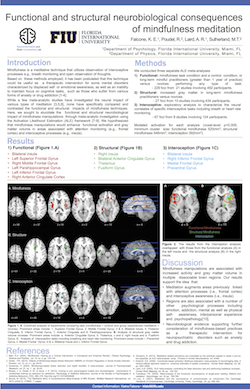
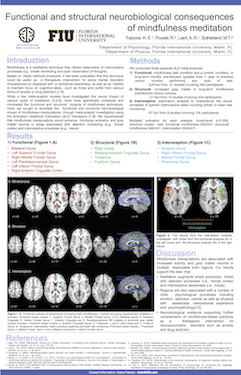
Add OHBM posters (#296)
* Add Jessica's OHBM poster.

* Boom add those posters.

* Standardize poster sizes.

* Improve documentation.

diff --git a/tests/test_images.py b/tests/test_images.py
@@ -36,6 +36,32 @@ def test_team_image_sizes(testdata):
         raise Exception('Test failed on {}'.format(', '.join(failures)))
 
 
+def test_poster_image_sizes(testdata):
+    """
+    Test that poster pictures are the right size.
+    """
+    photo_folder = os.path.join(testdata["assets"], "images", "posters")
+    max_target_size = 375  # in pixels
+
+    # Group photos should not have "-" in the filenames
+    patterns = ["*.png", "*.jpg"]
+    files = [glob(os.path.join(photo_folder, p)) for p in patterns]
+    files = [item for sublist in files for item in sublist]
+    if not len(files):
+        raise Exception("No files found in {}".format(photo_folder))
+
+    failures = []
+    for f in files:
+        fname = os.path.basename(f)
+        img = plt.imread(f)
+        if max(img.shape) != max_target_size:
+            failures.append(fname)
+
+    if len(failures):
+        failures = sorted(list(set(failures)))
+        raise Exception('Test failed on {}'.format(', '.join(failures)))
+
+
 def test_project_image_sizes(testdata):
     """
     Test that project photos are the right size.

diff --git a/posters/_posts/2021-06-21-bottenhorn-physio-ohbm.md b/posters/_posts/2021-06-21-bottenhorn-physio-ohbm.md
@@ -1,0 +1,50 @@
+---
+layout: poster
+title: "Denoising physiological data collected during multi-band, multi-echo EPI sequences"
+nickname: 2021-06-21-bottenhorn-physio-ohbm
+authors: "Bottenhorn KL, Salo T, Riedel MC, Musser ED, Robinson JL, Sutherland MT, Laird AR"
+year: "2021"
+conference: "HBM"
+image: /assets/images/posters/2021-06-21-bottenhorn-physio-ohbm.png
+projects: ["diva"]
+tags: []
+
+# Content
+fulltext: "https://ww4.aievolution.com/hbm2101/index.cfm?do=abs.viewAbs&src=ext&abs=1463"
+pdf: "https://anyscreeninc.com/PF/OHBM/2021/OHBM-Educational-Courses/pdf_poster_files/Katherine_Bottenhorn60785c7f4c7de/Katherine_Bottenhorn.pdf"
+
+# Links
+doi:
+
+# Data and code
+github: ["https://github.com/62442katieb/mbme-physio-denoising"]
+neurovault:
+openneuro:
+figshare:
+figshare_names:
+osf:
+f1000:
+---
+{% include JB/setup %}
+
+# Abstract
+
+## Introduction
+
+The utility of physiological data collected during functional magnetic resonance imaging (fMRI) is twofold, both in removing non-neural physiological noise from fMRI data and in studying psychophysiological phenomena. However, MR sequences impart significant artifacts on simultaneously-collected physiological data, obscuring phenomena of interest and necessitating effective data cleaning approaches. While single-echo (SE) MRI sequences that measure the blood-oxygenation level dependent (BOLD) signal are the norm in fMRI research, advances in MR technology and denoising are prompting researchers to turn to multi-echo (ME) sequences, offering better differentiation between BOLD signal and non-neural noise for improved estimates of brain activation.1-3 Despite their benefits, ME sequences limit temporal resolution, as adding echoes extends repetition times (TRs), and introduce added artifacts to concurrent physiological data. The former can be mitigated by using multi-band (MB) excitation, reducing the time required to acquire a single volume by acquiring several slices simultaneously. The latter complicates the use of physiological data in fMRI studies using ME sequences, which we address here by comparing strategies for MR-artifact removal in physiological data across SE and ME BOLD fMRI scans.
+
+## Methods
+
+Physiological data were collected at 2000Hz using MRI-compatible equipment from BIOPAC Systems. Data were acquired using a BIOPAC MP150 system with MRI-RFIF filters: electrocardiogram (ECG) data with a 3-lead bipolar configuration and an ECG100C-MRI amplifier; electrodermal activity (EDA) recordings, from the nondominant hand, with an EDA100C-MRI amplifier.
+Physiological data were acquired in the bore of a 3-Tesla Siemens MAGNETOM Prisma during both a MBSE BOLD echo planar imaging (EPI) sequence and a MBME BOLD EPI sequence.
+The MBSE sequence is by the Adolescent Brain Cognitive Development (ABCD) Study,4 which acquires 60 slices with TE=30ms, TR=800ms, and MB factor of 6.
+The MBME sequence is from the distribution of MB GRE-EPI sequences developed by the Center for Magnetic Resonance Research at the University of Minnesota, and acquires 48 slices in 4 echoes (TE1=11.80ms, TE2=28.04ms, TE3=44.28ms, TE4=60.52ms), TR=1500ms, MB factor of 3.5
+Code used to create and apply these filters is available on GitHub (github.com/62442katieb/mbme-physio-denoising).
+
+## Results
+
+Following Fourier transforms of ECG and EDA data before and during both sequences, we identified MR-related noise in frequencies corresponding to the TR and slice acquisition. The effects of this noise were greater during ME than SE sequences, which is visually apparent in (1) the difference between recordings collected before and during the two BOLD EPI sequences and (2) their frequency spectra (MBSE-ECG in Fig. 1A-B vs. 1C-D; MBME-ECG in Fig. 1I-J vs. 1K-L and MBSE-ECG in Fig. 2A-B vs. 2C-D; MBME-ECG in Fig. 2I-J vs. 2K-L). By adapting recommendations from industry leaders and prior research, we developed and applied digital infinite impulse-response (IIR) notch filters, greatly reducing the impact of this noise on physiological data.
+
+## Conclusions
+
+MB and ME pulse sequences introduce more complicated artifacts concurrent physiological data than can be addressed with current industry recommendations. Our research finds that these artifacts are predictable and their effects can be greatly mitigated with notch filters centered at their fundamental frequencies and harmonics. By targeting the slice acquisition frequency, adjusted for MB factor, and TR frequency, especially with ME sequences, researchers should be able to remove significant MR-related artifacts from ECG and EDA data collected during fMRI scans using straightforward digital filters. Such recommendations allow researchers to capitalize on the improved SNR afforded by MBSE and MBME BOLD sequences, while including rich physiological data for both cleaning fMRI data and investigating psychophysiological phenomena.

diff --git a/posters/_posts/2021-06-21-flannery-hivcb-eat-ohbm.md b/posters/_posts/2021-06-21-flannery-hivcb-eat-ohbm.md
@@ -1,0 +1,46 @@
+---
+layout: poster
+title: "Reduced Error-Related Default Mode Network Deactivations Linked with HIV and Poor Medication Management"
+nickname: 2021-06-21-flannery-hivcb-eat-ohbm
+authors: "Flannery JS, Riedel MC, Salo T, Poudel R, Laird AR, Gonzalez R, Sutherland MT"
+year: "2021"
+conference: "HBM"
+image: /assets/images/posters/2021-06-21-flannery-hivcb-eat-ohbm.png
+projects: ["hiv_cannabis"]
+tags: []
+
+# Content
+fulltext: "https://ww4.aievolution.com/hbm2101/index.cfm?do=abs.viewAbs&src=ext&abs=1594"
+pdf: "https://anyscreeninc.com/PF/OHBM/2021/OHBM-Educational-Courses/pdf_poster_files/Jessica_Flannery60785c7f8d2f4/Jessica_Flannery.pdf"
+
+# Links
+doi:
+
+# Data and code
+github: ["https://github.com/Flanneryg3/HIVCB_ProjectCode"]
+neurovault: ["9337"]
+openneuro:
+figshare:
+figshare_names:
+osf:
+f1000:
+---
+{% include JB/setup %}
+
+# Abstract
+
+## Introduction
+
+Brain function supporting error-monitoring has rarely been examined among persons living with HIV (PLWH) despite its importance for recognizing and preventing maladaptive behavior (e.g., medication non-adherence) that could lead to worsened health outcomes among this vulnerable population. As medicinal and recreational cannabis use is prevalent among PLWH [1], we aimed to assess interactive impacts of HIV infection and chronic cannabis (CB) use on error-processing brain activity and investigate implications for clinically relevant disease management behaviors.
+
+## Methods
+
+Our sample of 103 participants (68.0% male, mean age=35.610.9 years) was stratified into four groups based on HIV serostatus and CB use history (HIV+/CB+, n=30; HIV+/CB-, n=25; HIV-/CB+, n=26; HIV-/CB-, n=22). To probe error-processing mechanisms, participants underwent fMRI scanning while completing a Go/NoGo, motor inhibition paradigm called the Error Awareness Task (EAT). Participants also completed a battery of well-validated instruments including the Revised Medication Management Test (MMT-R), an objective behavioral measure of medication management abilities [2], and self-reports of cannabis use history. Following preprocessing (FMRIPREP v1.1.1 [3]), six EAT runs were entered into a subject-level general linear model (GLM) including nuisance regressors and three task-related regressors. To characterize brain activity linked with cognitive control/failures, NoGo-correct minus NoGo-error [C-E] contrast values were assessed with a whole-brain, one-sample t-test (3dTtest++: two-tailed, pvoxel-wise=1.0e-10, cluster extent: 20 voxels). To assess HIV and CB main and interaction effects on these [C-E] contrast values, a whole-brain, 2(HIV) x 2(CB) ANOVA (3dMVM), including sex, age, and IQ as covariates, was performed. To assess brain-behavior relationships, we conducted Pearson’s correlations between averaged error-related  coefficients, extracted from identified clusters/regions of interest (ROIs), and error frequency in the EAT (ERROR COUNT). To probe clinically-relevant implications of HIV-associated alterations, we examined relationships between error-related brain activity and behavioral performance on the MMT-R (MMT SCORE) by conducting HIV-status x MMT SCORE ANCOVAs. Additionally, we tested a meditation model in which error-related brain activity (M) mediated the effect of HIV-status (X) on MMT SCORE (Y) [4, 5]. Finally, to evaluate the impact of lifetime cannabis use amount (AMOUNT), we assessed HIV-status x AMOUNT interactions on error-related brain activity and MMT SCORE among cannabis using participants (n=55).
+
+## Results
+
+We observed error-related brain activity in the anterior insula that was associated with better EAT performance across the full sample. Regarding group effects, PLWH displayed a lack of error-related deactivation in two default mode network (DMN) hub regions (the posterior cingulate cortex [PCC] and medial prefrontal cortex [mPFC]) that was contrarily observed among HIV- controls (Fig.1A). Additionally, degree of PCC suppression was associated with improved EAT performance among HIV- controls but not among PLWH (Fig.1B). CB main and interaction effects were not detected. Across all groups, reduced error-related PCC deactivation was associated with poorer medication management performance (Fig.2A) and mediated the effect of HIV-status on medication management abilities (Fig.2B). Finally, amount of CB used over the lifetime was associated with reduced mPFC deactivation to errors among CB using, HIV- controls, and poorer medication management abilities across all CB users.
+
+## Conclusions
+
+Our results demonstrate diminished error-related DMN suppression among PLWH linked to poor medication management. Identifying this HIV-associated, neurobiological alteration, which may contribute to high rates of medication nonadherence among this population [6, 7], could inform treatment planning and tailor self-care education.

diff --git a/posters/_posts/2021-06-21-bottenhorn-idconn-ohbm.md b/posters/_posts/2021-06-21-bottenhorn-idconn-ohbm.md
@@ -1,0 +1,51 @@
+---
+layout: poster
+title: "IDConn: A Python pipeline for investigating individual differences in functional brain connectivity"
+nickname: 2021-06-21-bottenhorn-idconn-ohbm
+authors: "Bottenhorn KL, Salo T, Bartley JE, Flannery JS, Sutherland MT, Laird AR"
+year: "2021"
+conference: "HBM"
+image: /assets/images/posters/2021-06-21-bottenhorn-idconn-ohbm.png
+projects:
+tags: []
+
+# Content
+fulltext: "https://ww4.aievolution.com/hbm2101/index.cfm?do=abs.viewAbs&src=ext&abs=1565"
+pdf: "https://anyscreeninc.com/PF/OHBM/2021/OHBM-Educational-Courses/pdf_poster_files/Katherine_Bottenhorn60785c7f7e1ed/Katherine_Bottenhorn.pdf"
+
+# Links
+doi:
+
+# Data and code
+github: ["https://github.com/NBCLab/IDConn"]
+neurovault:
+openneuro:
+figshare:
+figshare_names:
+osf:
+f1000:
+---
+{% include JB/setup %}
+
+# Abstract
+
+## Introduction
+
+Recent research has shown variability in brain network organization within individuals is nearly as great as variability within a group. [1] This has implications for human neuroimaging research and illustrates the need for a greater understanding of sources of individual variability in brain network organization and how it relates to behavior. Here, we present an open-source pipeline for assessing Individual Differences in the brain's functional Connectivity (IDConn). IDConn is a data analysis workflow that combines methods for assessing individual differences from functional magnetic resonance imaging (fMRI) data with connectomics, network science, and robust statistical methods, adjusted to address the unique challenges of fMRI data.
+
+## Methods
+
+IDConn (github.com/NBCLab/IDConn) brings together existing tools to create a configurable pipeline that is accessible to researchers, regardless of their technical background. It integrates functions from Nilearn [2], Nipype [3], scikit-learn [4], SciPy [5], Numpy[6], NiBabel, Pandas, Seaborn, statsmodels, NetworkX, and the Brain Connectivity Toolbox [7] in Python to provide the following workflow (Fig. 1).
+1. Computation of brain connectivity graphs (including input/output support)
+2. Computation of topological and graph theoretic measures from these graphs
+3. Data organization, harmonization, and treatment of missing data
+4. Statistical analysis, including multivariate regressions and robust corrections for multiple comparisons
+5. Generation of publication-quality figures based on these analyses
+
+## Results
+
+IDConn was designed for applications in human neuroimaging research, providing a flexible, open data analysis stream that takes in preprocessed fMRI data and provides computed graphs, derived graph measures, statistical models and the results thereof, and, optionally, figures presenting these results, all in an organized, sharing-friendly format for optimal reproducibility and transparency. It has already been used in two scientific publications. Gonzalez and Bottenhorn et al. [8] used an early iteration of IDConn to assess how differences in resting state functional connectivity between canonical brain networks are related to generalized anxiety and anxiety around Science, Technology, Engineering, and Math (i.e., STEM anxiety) and how these relations may differ between male and female university students before and after their first physics class (Fig. 2, top). Bottenhorn et al. [9] used IDConn to assess how task-based functional network organization supports relations between intelligence and academic achievement during physics-related cognition (Fig. 2, bottom). Bringing together robust tools for fMRI data processing and statistical inference, IDConn enables statistically-robust assessments of individual differences in functional brain connectivity and organization by neuroimaging researchers, Python-naïve to seasoned Pythonistas.
+
+## Conclusions
+
+IDConn is a configurable data analysis pipeline for assessing individual differences in functional connectivity and derived network measures. It amalgamates existing tools for neuroimaging data analysis, data science, machine learning, graph theoretic network analysis, statistics, and scientific computing into a unified, streamlined workflow for sophisticated, rigorous computation and extraction of connectivity and graph theoretic measures, for analyses with behavioral, demographic, psychophysiological, or other continuous variables. Furthermore, it conforms with the Brain Imaging Data Structure [10] for optimal redistribution and sharing of pipeline outputs. While there are a host of extant open-source software tools for analyzing fMRI data, many assume a level of code literacy and related skills that are not as common among researchers from the psychological sciences. IDConn fills this gap and provides an open, reproducible option for data analysis that incorporates high-quality software tools and up-to-date "best practices'' for analyzing fMRI data.

diff --git a/posters/_posts/2021-06-21-poudel-mmmm-dmn-ohbm.md b/posters/_posts/2021-06-21-poudel-mmmm-dmn-ohbm.md
@@ -1,0 +1,46 @@
+---
+layout: poster
+title: "Working memory is linked with default mode network deactivation and real-world money saving behavior"
+nickname: 2021-06-21-poudel-mmmm-dmn-ohbm
+authors: "Poudel R, Tobia MJ, Riedel MC, Salo T, Flannery JS, Hill-Bowen LD, Laird AR, Dick AS, Parra CM, Sutherland MT"
+year: "2021"
+conference: "HBM"
+image: /assets/images/posters/2021-06-21-poudel-mmmm-dmn-ohbm.png
+projects: ["mmmm"]
+tags: []
+
+# Content
+fulltext: "https://ww4.aievolution.com/hbm2101/index.cfm?do=abs.viewAbs&src=ext&abs=1588"
+pdf: "https://anyscreeninc.com/PF/OHBM/2021/OHBM-Educational-Courses/pdf_poster_files/Ranjita_Poudel60785c7f8a11b/Ranjita_Poudel.pdf"
+
+# Links
+doi:
+
+# Data and code
+github:
+neurovault:
+openneuro:
+figshare:
+figshare_names:
+osf:
+f1000:
+---
+{% include JB/setup %}
+
+# Abstract
+
+## Introduction
+
+The COVID-19 pandemic highlights the importance of emergency savings during uncertain times particularly among populations impacted by adverse social determinants of health (SDoH)[1]. SDoH, such as low socioeconomic status (low-SES), have been linked with a range of cognitive operations including working memory (WM), and have shown to impact health and education outcomes, rendering individuals vulnerable to disparities[2,3]. Despite evidence suggesting that financial stability may minimize SDoH related disparities[4,5], neurocognitive mechanisms associated with money-saving behavior among individuals impacted by adverse SDoH remains to be understood. To this end, we interrogated brain activity supporting WM performance, a cognitive construct widely impacted by low-SES related stress, to identify potential neurocognitive markers associated with saving behavior.
+
+## Methods
+
+We employed a widely utilized WM paradigm (N-back task) and collected fMRI data from individuals (n=24, 14 females; age: 24-60 years) with low-SES (income<$20,000/yr). Participants also completed a self-report measure of cognitive failures and a financial program where their money saving behavior was tracked over a 6-month period. Following preprocessing utilizing fMRIprep[6], fMRI task regressors along with nuisance regressors were entered in a subject-level general linear model to obtain task-evoked activation maps associated with three different WM loads (i.e., 1-back, 2-back, and 3-back versus vigilant 0-back)[7]. Significant brain activity related to each WM load was identified utilizing a whole brain, one-sample t-test (3dTtest++: two-tailed, pvoxel-wise=0.001, cluster extent: 26 voxels). To assess brain-behavior relationships, we assessed Pearson's correlations between beta-coefficients extracted from identified clusters and measures of WM task performance (d-prime), self-reported cognitive failures, and real-world saving behavior. We further conducted a mediation analysis to probe if task performance (M) mediated the effect of WM-related brain activity (X) on money savings (Y)[8].
+
+## Results
+
+Regarding task-effects, we observed WM-load related deactivations in brain regions associated with the default mode network (DMN) (i.e., precuneus and medial frontal gyrus [MFG]). Further, we observed that DMN deactivation was negatively correlated with task performance such that increased WM-related deactivations were linked with improved task performance [precuneus: r(24)=-0.43, p=0.03, MFG: r(24)=-0.43, p=0.02] [Fig.1]. As WM task performance correlated with both task-based regional deactivations and saving behavior [savings-task performance: r(24)=0.56, p=0.005], we subsequently conducted a mediation analysis to test if the influence of DMN deactivation (X) on savings behavior (Y) was mediated by task performance (M). We found that task performance fully mediated the influence of DMN deactivation on savings behavior. Specifically, when including WM task performance as a mediator, DMN's direct effect on savings failed to reach significance, whereas the indirect effect was significant (Precuneus; ab path: β = -103.96: 96% CI= -221.22, -23.06, MFG; ab path: β = -145.61: 95% CI = -420.35, -2.16) [Fig.2]. These results indicate that increased WM-related DMN deactivation predicted improved task performance and, improved task performance, in turn, predicted better saving behavior.
+
+## Conclusions
+
+Overall, these findings indicate that individual differences in WM performance and/or WM-related DMN deactivation may be relevant aspects associated with successful money saving behavior. Understanding underlying brain-behavior relationships associated with savings behavior among low-SES individuals may provide principled first steps toward the development of tailored interventions aiming to increase financial stability and facilitate adaptive behavioral change for financial success aimed towards minimizing SDoH related disparity.

diff --git a/posters/_posts/2021-06-21-perez-hivcb-dmn-ohbm.md b/posters/_posts/2021-06-21-perez-hivcb-dmn-ohbm.md
@@ -1,0 +1,46 @@
+---
+layout: poster
+title: "Cognitive implications of changes across DMN structural connectivity related to cannabis use and HIV"
+nickname: 2021-06-21-perez-hivcb-dmn-ohbm
+authors: "Viera Perez PM, Flannery JS, Gonzalez R, Laird AR, Sutherland MT"
+year: "2021"
+conference: "HBM"
+image: /assets/images/posters/2021-06-21-perez-hivcb-dmn-ohbm.png
+projects: ["hiv_cannabis"]
+tags: []
+
+# Content
+fulltext: "https://ww4.aievolution.com/hbm2101/index.cfm?do=abs.viewAbs&src=ext&abs=1313"
+pdf: "https://anyscreeninc.com/PF/OHBM/2021/OHBM-Educational-Courses/pdf_poster_files/PatricioMiguel_Perez60785c7f0573b/PatricioMiguel_Perez.pdf"
+
+# Links
+doi:
+
+# Data and code
+github:
+neurovault:
+openneuro:
+figshare:
+figshare_names:
+osf:
+f1000:
+---
+{% include JB/setup %}
+
+# Abstract
+
+## Introduction
+
+To alleviate human immunodeficiency virus (HIV)-related symptoms (e.g., pain, nausea, loss of appetite) people living with HIV (PLWH) often report using cannabis (CB). Of the 38 million PLWH, nearly half demonstrate neurocognitive impairments highlighting a need to clarify the brain-based manifestations of such impairments. Emerging evidence suggests that HIV infection and chronic CB use are both separately linked with alterations in default mode network (DMN) functional connectivity. Prior studies have also demonstrated that resting-state connectivity networks correlate with underlying structural connections between functional nodes. Elucidating the relationship between CB use, HIV infection, and DMN structural connectivity is important for improved understanding of the impact of these conditions on neurocognitive functions, and to better inform patients, healthcare providers, and policy makers about medicinal and/or recreational CB use among PLWH.
+
+## Methods
+
+Using diffusion weighted imaging (DWI) data, we characterized the structural connectivity profiles of DMN regions among 100 participants stratified into four groups based on HIV serostatus and CB use history (HIV+/CB+, n=27; HIV+/CB-, n=24; HIV-/CB+, n=27; HIV-/CB-, n=22). To establish the structural connectivity profiles across DMN nodes a deterministic fiber tractography algorithm (FA threshold = 0.20, angle threshold = 30°, min length = 30 mm, max length = 500mm, seed count = 100,000) was used to track bilateral cingulum tracts (CT), the bilateral superior fronto-occipital fasciculus (FOF), and the genu of the corpus callosum (CC). Participants completed a battery of well-validated tasks to quantify behavioral measures of inhibitory control, error processing, and general cognitive control. To explore the influence of HIV and CB on structural connectivity, first a 2x2 ANOVA, including age and sex as covariates was conducted on individual white matter tract DVs. Then, for the tracts showing group-level differences, a mixed linear regression was conducted with an emphasis on the HIVxCB interaction when considering DTI metrics and behavioral measures.
+
+## Results
+
+The ANOVA analysis of white matter tracts identified significant group differences in tract number for the right CT between HIV groups (Fig. 1A), tract volume of the left CT between CB groups (Fig. 1B), and the FA values of the right superior FOF between CB groups (Fig. 1C). Tukey post-hoc tests revealed that HIV+ (vs. HIV-) groups had more right cingulum tracts, and CB+ (vs. CB-) groups had greater tract volume in the left cingulum and higher FA in the right superior FOF. The linear regression analyses on the left CT, right superior FOF, and right CT identified a significant interaction between CB and FA in the left cingulum, such that CB+ groups demonstrated more preservative errors than the CB- groups (Fig. 2A). Across all participants, left cingulum tract volume was positively associated with general processing speed (Fig. 2B).
+
+## Conclusions
+
+The left cingulum tract connects the posterior cingulate cortex, (para)hippocampal regions, entorhinal cortex, and the medial temporal lobes, which are areas commonly linked with both memory and emotional regulation. Our results suggest that the left cingulum tract may be more susceptible to CB-related structural connectivity alterations regardless of HIV serostatus. These results also suggest that DMN structural connectivity alterations may contribute to more preservative errors reflecting reduced cognitive flexibility (shifting). Taken together, these outcomes provide enhanced insight into the neurobiological underpinnings of HIV and CB-related impacts on cognition.

diff --git a/README.md b/README.md
@@ -127,10 +127,12 @@ In order to reduce the amount of data we use with images, we have rules for imag
 |------------------|----------------|-----------------|
 | Lab member photo | 200 | 200 |
 | Journal cover    | 150 | variable |
-| Poster           | 250 | variable |
+| Poster           | <=375* | <=375* |
 | Talk             | 1000 | variable |
 | Project          | 1000 | variable |
 | News             | 1000 | variable |
+
+\* Either height or width must be 375 pixels, and the other must be less than or equal to 375 pixels.
 
 ## License
 
